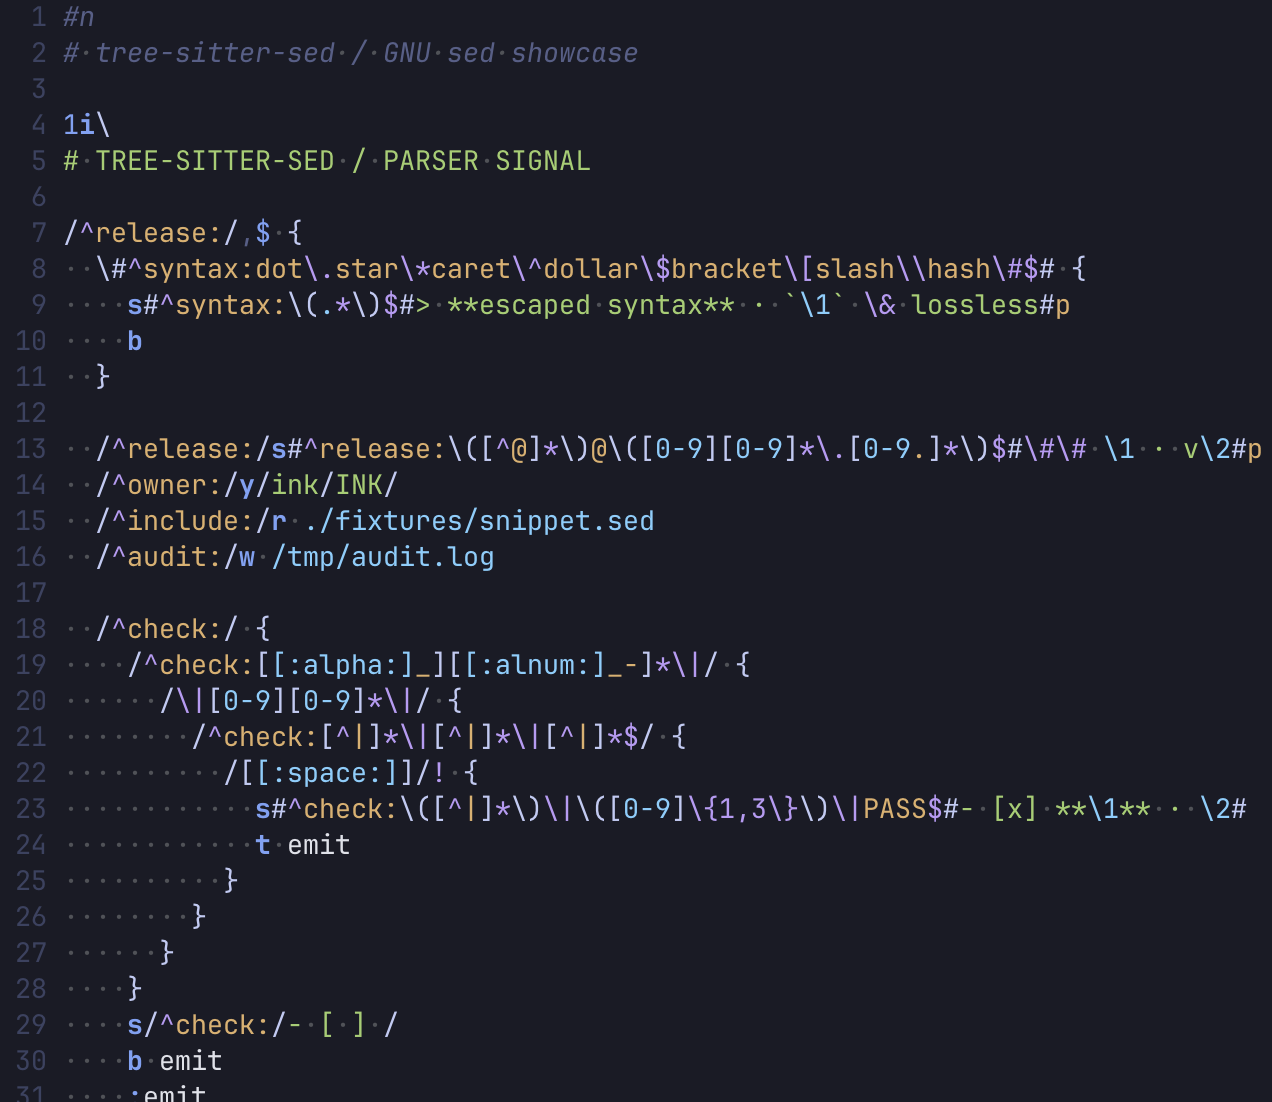
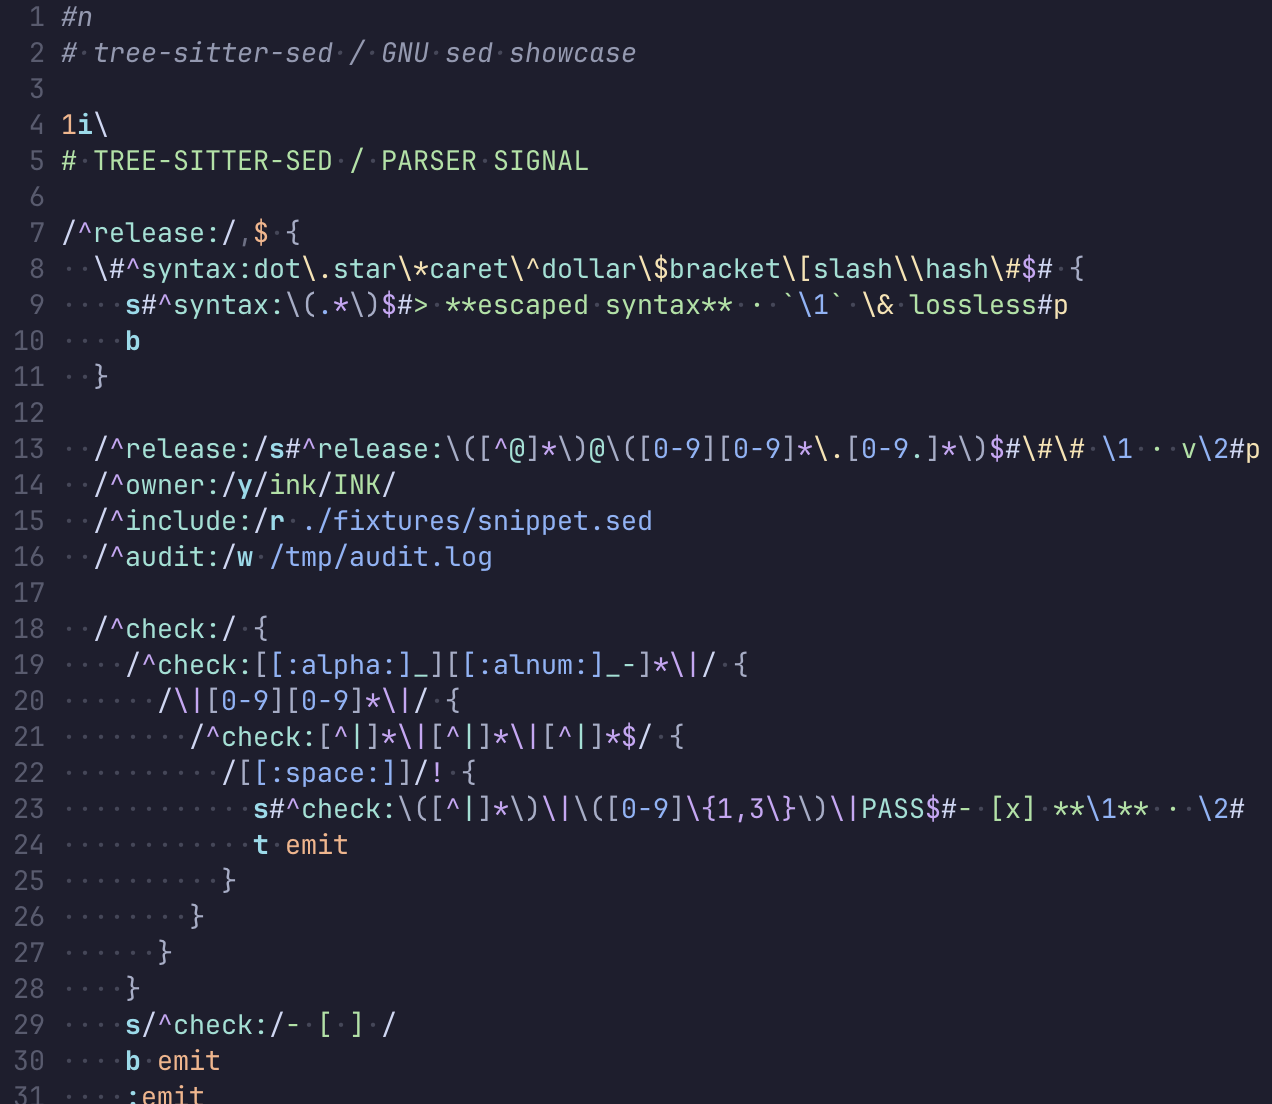
docs: refresh Neovim screenshot

diff --git a/README.md b/README.md
@@ -7,11 +7,11 @@ POSIX.1-2024 `sed` and GNU `sed` 4.10.
 
 ![A sed script with syntax highlighting in Neovim](assets/neovim-preview.png)
 
-_`sed` syntax highlighting in Neovim._
+_An example of GNU `sed` syntax highlighting in Neovim._
 
 ![A POSIX ERE sed script with syntax highlighting in Emacs](assets/emacs-preview.png)
 
-_POSIX ERE `sed` syntax highlighting in Emacs._
+_An example of POSIX ERE `sed` syntax highlighting in Emacs._
 
 ## Neovim features
 
